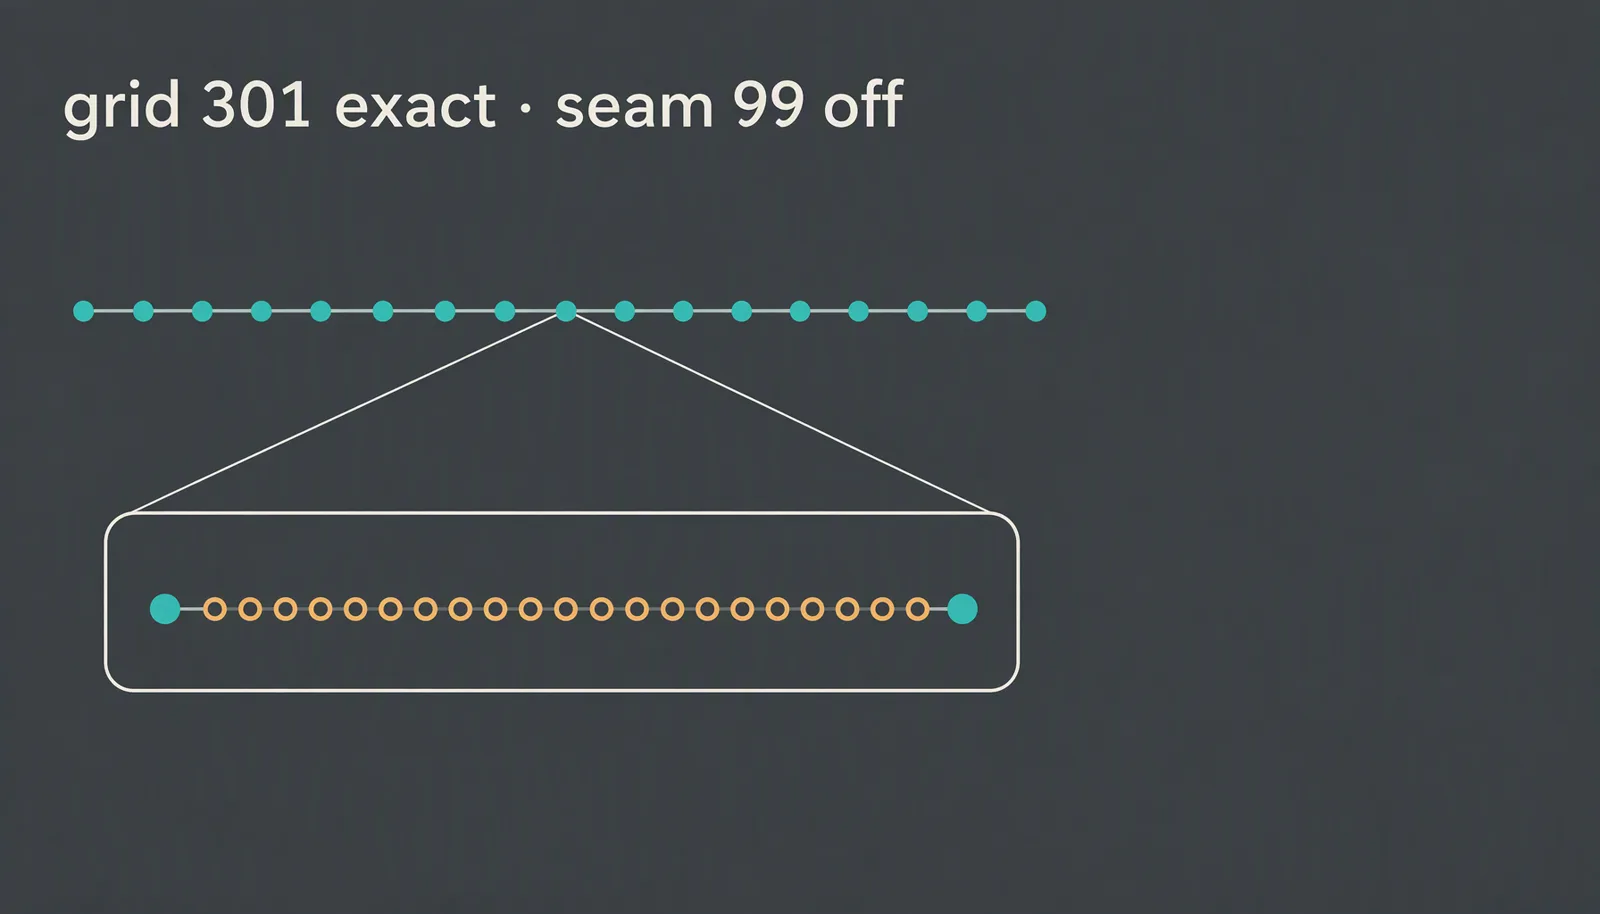
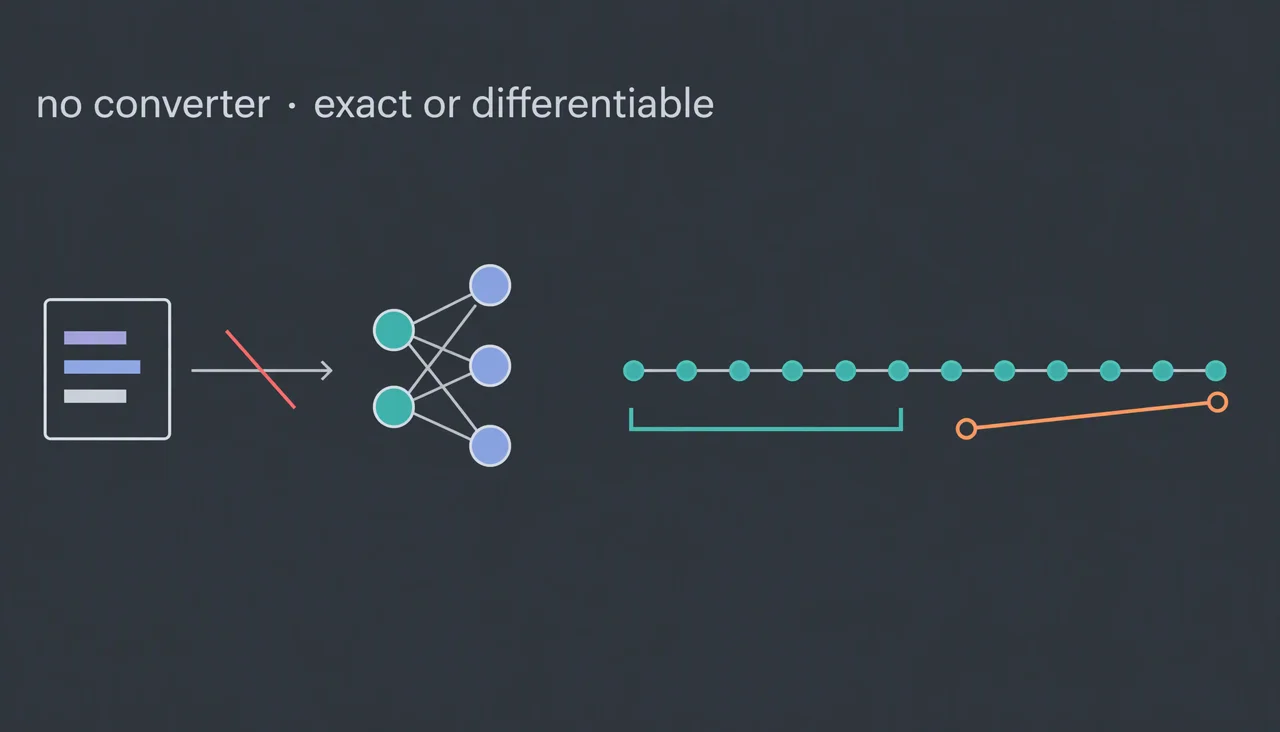
feat(blog): 10-16 handwired 那篇重写——主峰换成 README 与 docs 的逐字对冲
v1 门禁全绿但读不下来：没有入口段、标题用「缝」这种只在本轮取证里存在的
私有用词、五节全是日志形状。重写为七节，先说它是什么能干什么，再给实测
落差，并补一节「该不该装我分三档」；标题改用候选 02，封面标签跟着同源重做
成 no converter · exact or differentiable 两栏对冲。

展望那节顺手改掉一处无来源支撑：初稿写「这台机器当时 load average 11」，
而 R-16 那趟根本没抓 uptime。补测第三跑（跑前 33、跑完 142，perDocMs
2.4–6.9），改成两跑同向只说「都够不到 0.14」。

diff --git a/_posts/2026-10-16-handwired-js-neural-net.md b/_posts/2026-10-16-handwired-js-neural-net.md
@@ -1,35 +1,43 @@
 ---
 layout: post
-title: 别照 README 那两行抄：声明了整数格，它在缝里就给你插值
-subtitle: handwired 把比较压成两个 ReLU，它 exact 的域和梯度非零的域刚好互补
-seo_short_title: handwired 整数格与梯度实测
-seo_description: 把 chenglou/handwired 的 emitCompare 摆到 301 个整数点和 4 到 5 之间 101 个点上逐一对账：整数点 0 处不符但梯度非零数为 0，缝里 99 个点和 JavaScript 不等，首个不符在 4.01。
+title: README 说把 JS 变神经网络，docs 说没有转换器
+subtitle: handwired 实测：没有源码转换器，且 exact 和梯度非零活的输入域刚好互补
+seo_short_title: handwired 转换器与梯度实测
+seo_description: 把 chenglou/handwired 的 emitCompare 摆到 301 个整数点和 4 到 5 之间 101 个点上：整数点 0 处不符、梯度非零 0 个，缝里 99 个点和 JavaScript 不等。它也没有源码转换器。
 date: 2026-10-16
 categories: [TypeScript, 开源实测]
 cover: /assets/img/handwired-js-neural-net/banner.webp
 tags: 开源项目 JavaScript 算法 性能优化 黑科技
 ---
 
-# 别照 README 那两行抄：声明了整数格，它在缝里就给你插值
+# README 说把 JS 变神经网络，docs 说没有转换器
 
-![数轴上一段被放大的空心圈：格点上全对，缝里 99 个点不符](/assets/img/handwired-js-neural-net/banner.webp)
+![左半：JS 文件指向电路的箭头被划掉；右半：数轴上两段不重叠的带](/assets/img/handwired-js-neural-net/banner.webp)
 
-> 一句话结论：handwired 保证 exact 的那个域和它梯度非零的那个域刚好互补，缝里给的是插值
-> 现在该做什么：给线声明格之后单独调一次 validateGrids，别只跑求值
+> 一句话结论：handwired 没有源码转换器，电路得你手写；它宣传的 exact 和可微活在两个不重叠的输入域上
+> 现在该做什么：先读 docs 那份目录再决定装不装。别把 README 第一句当能力清单。
 
-## 三条通道全红，tarball 解出 4,966,704 字节
+## README 第一句我读错了：它转的是 builder code
 
-抓下来时它开仓一天多，1431 星。README 写着这是个把神经网络前向跑成 ReLU 加仿射矩阵的 TypeScript 库，连一次比较都要塞进电路里，入口叫 `emitCompare`。
+抓下来时它开仓一天多，1431 星。作者 GitHub ID 是 chenglou，bio 逐字写着 `ReactJS, ReasonML, ReScript, Messenger, Midjourney`，README 第一句是这句：`Turn your regular JavaScript code into a neural net; no training, exact, yet also fully differentiable!`
 
-它给的安装指令只有一行 `git clone && bun install`。我走三条通道全红：直连报 `HTTP/2 stream 1 was not closed cleanly`，退到 HTTP/1.1 报 `Empty reply from server`，挂上本机代理端口报 `Connection refused`。
+我把它读成了「我现有的 JS 丢进去就能变成神经网络」。docs 第三行逐字写着另一句：`No tool converts existing JavaScript source into a program.` 它要的是 builder code，一段只跑一次的普通 JS，把运算一条条追加进一个 `Circuit`。这枚误读在我这边。
 
-最后从 codeload 拉 tar.gz，解出 4,966,704 字节，对应 commit `4ea7fcb`。本机没有 bun，`npm i bun@latest` 装到 `1.4.3` 才跑得动它 12 条 scripts。
+那它到底能干什么？docs 逐字列了三个 demo。HandwiredOS 是一个小桌面，三个窗口加一条 dock，由一个程序跑。learned gallery 是照片排版，排版系数用程序自己的梯度训练。json search 每次按键搜十万篇 JSON，两个程序写成 WebGPU 着色器。
 
-## 301 个整数点 0 处不符，梯度非零的也是 0 个
+我 clone 三条通道全红（HTTP/2、Empty reply、本机代理 refused），最后从 codeload 拉 tar.gz 才拿到落盘副本，对应 commit `4ea7fcb`。上面这些逐字句都出自那份副本，不是官网截图。
 
-先拿 `emitCompare` 编译出来的电路和 JavaScript 的 `>` 逐点对。我建一条声明了 1 格的线（`assumeGrid(w, 1)`），阈值取常量 4，输出写成 `out = 12 - 2 * bit`，然后从 -100 到 200 每个整数喂一遍。
+## 两行代码变电路：401 个整数点我逐点对过
 
-![终端实测：两条路径的 op 与层数、逐点相符数、梯度非零计数](/assets/img/handwired-js-neural-net/01-screenshot-grid-vs-cascade.webp)
+README 的例子只有两行。`(a > 4) ? 10 : 12` 写成 `above4 = Math.max(0, a - 4) - Math.max(0, a - 5)`，再 `result = above4 * 10 + (1 - above4) * 12`。`Math.max(0, x)` 就是 ReLU，两个 ReLU 相减替掉一次比较。
+
+我照这两行手写在 node 里，跟原程序对 -200 到 200 共 401 个整数点，0 处不符。半整数就露馅：a 取 4.5 时它给 11，JavaScript 给 10。把 4 到 5 按 0.01 扫满，101 个点里 99 个和 JavaScript 不等，误差只活在两个 ReLU 之间那 1 个单位宽的缝里。
+
+## 上面 401 个点是我手推的，换成它的电路呢
+
+![终端实测：两条 lowering 路径的 op 与层数、逐点相符数、梯度非零计数](/assets/img/handwired-js-neural-net/01-screenshot-grid-vs-cascade.webp)
+
+手推是一回事，`emitCompare` 编译出来的电路是另一回事。我声明一条 1 格的线（`assumeGrid(w, 1)`），阈值取 4，输出写成 `out = 12 - 2 * bit`，从 -100 到 200 每个整数喂一遍。
 
 ```
 B grid+integers    {"tested":301,"bad":0,"firstBad":null}
@@ -41,17 +49,17 @@ D integers -50..50 (n=101) nonzero gA=0 nonzero gT=0
 
 同一批点再跑一次 `backpropagateReference`，输出对输入那条线的梯度、对阈值那条线的梯度，非零的个数都是 0。
 
-缝在别处。把输入从整数换成 4 到 5 之间按 0.01 步长取的 101 个点，第一个不符落在 `4.01`，一共 99 个点和 JavaScript 不等。**它 exact 的那个域和它梯度非零的那个域刚好互补**：格点上值对、梯度死；缝里梯度活了，值开始撒谎。
+**它 exact 的那个域和它梯度非零的那个域刚好互补。** 格点上值对、梯度死。把输入换成 4 到 5 之间按 0.01 取的 101 个点，梯度活了（对输入是 -2），值却开始撒谎：99 个点和 JavaScript 不等，第一个不符在 4.01。README 那句 `exact, yet also fully differentiable` 里的 yet also，我实测是二选一。
 
-## 4.5 那一步它给 11，也不报错
+## 4.01 之后它不报错，也不拦你
 
-缝里 4.01 往后的读数是一条斜坡。同一张电路，输入从 4 走到 5，它交出来的是 `12 / 11.5 / 11 / 10.5 / 10.02 / 10`，JavaScript 那边一步跳完，之后全程 10。它没在缝里报错，也没把值吸回格点，它插值。
+![终端实测：声明格的线喂进 4.5，validateGrids 抛错而两个求值器都不抛](/assets/img/handwired-js-neural-net/02-screenshot-seam-values.webp)
 
-![终端实测：声明格的线喂进 4.5，validateGrids 抛错而求值不抛](/assets/img/handwired-js-neural-net/02-screenshot-seam-values.webp)
+缝里的读数是一条斜坡。同一张电路，输入从 4 走到 5，它交出来的是 `12 / 11.5 / 11 / 10.5 / 10.02 / 10`；JavaScript 那边一步跳完，之后全程 10。
 
 我原本以为 `validateGrids` 挂在求值路径上。声明了 1 格的线喂进 4.5，总该被拦一下。实际是 `evaluateReference` 和 `createTensorEvaluator` 都不抛，把 11 交出来；`validateGrids` 是个得自己调的导出函数，调了才抛 `wire 0 must be a multiple of 1, got 4.5`。
 
-所以 `emitCompare` 上面那段契约没被我推翻，它写的是对**声明范围内**的每一对值都等，4.5 不在我声明的格里。这枚红在我这边：我把声明当成了强制。
+所以 `emitCompare` 上面那段契约没被我推翻，它写的是对**声明范围内**的每一对值都等，4.5 不在我声明的格里。第二枚红还是在我这边：我把声明当成了强制。
 
 ## #1 报的零梯度，原因不在 emitCompare
 
@@ -59,16 +67,22 @@ D integers -50..50 (n=101) nonzero gA=0 nonzero gT=0
 
 chenglou/handwired#1 的正文逐字写着 `backpropagateReference gives a threshold held in a constant cell zero gradient through an emitCompare decision, so a learned breakpoint never moves.`（[issue 原文](https://github.com/chenglou/handwired/issues/1)，10-15 开，抓于 10-16 15:34 UTC）。它把零梯度记在比较决策头上，我数出来的不是这条。
 
-那个常量格在电路里没有任何引用者。`c.constant(4)` 走的是 `affine([], 4)`，`foldConstantTerms` 把值并进下游仿射的 bias，`leftTerms` 里已经没有这条线，反传拿不到它，跟比较决策无关。旁证在我手推的那两行代数上：对阈值做中心差分，a=4.5 拿到 +2，a=8 拿到 -2，不是 0；把阈值从常量格换成第二条 source 线，缝里 a=4.5 的 `gT` 实测就是 2。
+那个常量格在电路里没有任何引用者。`c.constant(4)` 走的是 `affine([], 4)`，`foldConstantTerms` 把值并进下游仿射的 bias，`leftTerms` 里已经没有这条线，反传拿不到它。旁证在我手推的那两行代数上：把阈值从常量格换成第二条 source 线，缝里 a=4.5 的 `gT` 实测就是 2，比较决策没挡住梯度。
 
 要让这条判断塌，只要有人指出 `emitCompare` 内部给常量格留了一个可反传的项，或者我数 `leftTerms` 时走的是另一条分支。这两件我都没去查。
 
-## 没验到的两半：GPU 与那 0.14 毫秒
+## emitCompare 的事说到这，该不该装我分三档
 
-`foldConstantTerms` 我只在比较电路里验过。同一份落盘副本，我还跑了它检索那一半。README 写着 CPU 后端 `0.14 ms per document of 300 code points at 8 states`，我用 `createCpuSearcher` 对同一模式连搜 4 次，一万六千篇文档时四次是 `0.5568 / 0.5538 / 1.1186 / 0.5856` 毫秒每篇，稳在它那个数的 4 倍上下。它自己也写了这后端只喂几百篇，我拿一万六去量是超出它建议的用法；这台机器当时 load average 11，这组数只会偏慢不会偏快。
+想搞清程序和神经网络是不是同一条连续体：值得读。docs 六份从 tutorial 一路排到 execution-model，每份开头都写清楚自己管哪一段，`patterns.md` 那句 `The program runs every operation on every frame and can't stop early` 是我这轮读到最实在的一句约束。
 
-那枚 5000 毫秒的超时我没能复现，四次里三次全绿。GPU 那半边我没有 WebGPU 会话，十万篇文档的毫秒数属没验到。
+想接进构建链：现在不行。`package.json` 里 `private: true`，没发 npm 包，12 条 scripts 全要 bun，docs 那句写的是 `The repo needs Bun, and is tested with Bun 1.4.3`。
 
-如果 chenglou/handwired#1 在 0.x 阶段有人接阈值该放常量格还是放线这个话头，我就回去把格点上 `gT` 是否恒 0 写成一条测试提给它；没人接，这篇就是我一个人对着这份 tarball 说的话。
+想拿它跑你现有的界面代码：先承认没有转换器。电路得你手写，循环只能摊成计数、树、表或者每项同量，一帧里所有运算都要跑完。
+
+## docs 那句 0.14 毫秒我量到 0.55
+
+docs 那半句我复测了两跑。第一跑一万六千篇文档，四次是 `0.5568 / 0.5538 / 1.1186 / 0.5856` 毫秒每篇，稳在它那个数的 4 倍上下。第二跑同一份脚本，跑前跑后各抓一次 `uptime`：负载从 33 抬到 142，四次变成 `6.9354 / 2.3755 / 4.3074 / 2.8922`。第一跑我没抓负载，那组 0.55 的机器状态我说不清。两跑唯一同向的结论是都够不到 0.14。它自己也写了这后端只喂几百篇，我拿一万六去量是超出建议用法；GPU 那半边我没有 WebGPU 会话，十万篇文档的毫秒数属没验到。
+
+如果 chenglou/handwired#1 那个阈值该放常量格还是放线的话头在 0.x 阶段有人接，我就回去把格点上 `gT` 是否恒 0 写成一条测试提给它；没人接，这篇就是我一个人对着这份 tarball 说的话。
 
 项目地址：[https://github.com/chenglou/handwired](https://github.com/chenglou/handwired)

diff --git a/assets/img/handwired-js-neural-net/prompts/04-cover-two-panel-d.md b/assets/img/handwired-js-neural-net/prompts/04-cover-two-panel-d.md
@@ -1,0 +1,34 @@
+# Cover prompt 04 · two-panel: no converter + split domains
+
+Type: conceptual | Palette: elegant (slate/graphite ground, teal + soft orange accents) | Rendering: flat-vector, thin strokes
+Text: title-only (one short label line, English only) | Mood: balanced | Aspect: 16:9 | Watermark: none
+
+## Composition (two panels, one shared baseline, no gap confusion)
+
+LEFT PANEL (about 45% width):
+- A small document card with three short horizontal lines of "code" (abstract, unreadable pseudo-lines, no real words).
+- A straight arrow pointing right from the card toward a small node-graph (5 circles wired in 2 layers).
+- The arrow is crossed out by one clean diagonal slash in muted red. The node graph stays un-crossed.
+- Meaning to convey: there is NO automatic source-to-program converter.
+
+RIGHT PANEL (about 55% width):
+- A horizontal number line with evenly spaced filled teal dots (12 of them).
+- Under the left half of the line, a solid teal bracket band labelled nothing.
+- Under the right half, a soft-orange ramp segment (a straight diagonal line rising between two endpoints), with hollow orange circles sitting on the ramp.
+- The two bands must NOT overlap and must NOT touch: a clear empty gap between them.
+- Meaning to convey: the domain where values are exact and the domain where the gradient is alive are disjoint.
+
+## Text (the ONLY text in the image)
+
+Label, top-left aligned, single line, sans-serif, high contrast on the dark ground:
+
+`no converter · exact or differentiable`
+
+Exactly those 5 words plus the middot. No other letters, no Chinese characters, no numbers, no watermark, no signature.
+
+## Style constraints
+
+- 40-60% whitespace, dark graphite background (#2f353b-ish), thin 2px strokes.
+- Simplified geometric shapes only. No humans, no robots, no brains, no glowing cyber effects.
+- No drop shadows, no gradients in the background, no lens flare.
+- Readable at 320px width: the slash, the gap between the two bands, and the label must all survive downscaling.

diff --git a/assets/img/handwired-js-neural-net/prompts/05-cover-split-e.md b/assets/img/handwired-js-neural-net/prompts/05-cover-split-e.md
@@ -1,0 +1,28 @@
+# Cover prompt 05 · single object: a fork between two paths
+
+Type: metaphor | Palette: mono-elegant (graphite ground, one teal accent, one orange accent) | Rendering: flat-vector
+Text: title-only (one short label line, English only) | Aspect: 16:9 | Watermark: none
+
+## Composition (ONE central object, filling the frame band, minimal dead space)
+
+A single wire comes in from the left edge and reaches a small solid node in the middle. From that node the wire
+splits into exactly two branches that leave toward the right edge:
+
+- Upper branch: teal, drawn as a row of evenly spaced solid dots on a straight segment (discrete, exact, no slope).
+- Lower branch: soft orange, drawn as a smooth diagonal ramp with hollow circles sitting on it (continuous, sloped).
+
+The two branches must be clearly different in length (upper slightly shorter) and must not touch after the split.
+The split node is the visual anchor, placed on the left third of the frame so the two branches read as consequences.
+
+Nothing else in the frame: no boxes, no arrows pointing at it, no callouts, no code, no people, no icons.
+
+## Text (the ONLY text)
+
+`no converter · exact or differentiable`
+
+Single line, top-left, sans-serif, same wording, no other letters or digits, no Chinese, no watermark.
+
+## Style
+
+- Dark graphite flat background, thin 2-3px strokes, 45% whitespace, calm contrast.
+- Geometric and abstract only.
